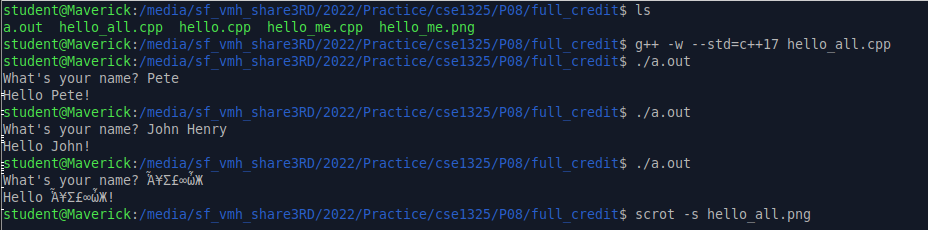
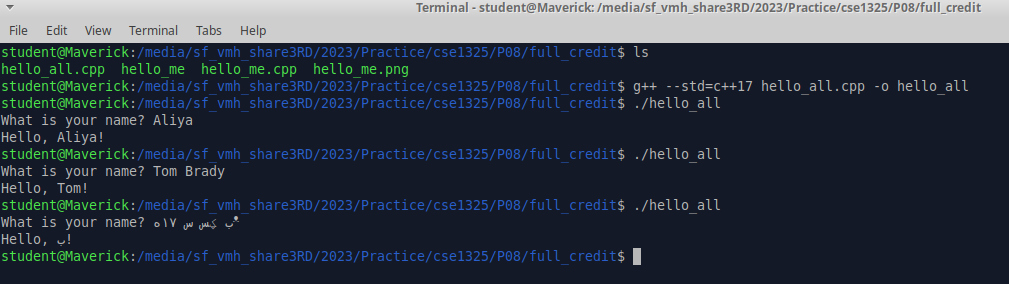
P08 C++ full_credit 4/5/23

diff --git a/P08/full_credit/hello_all.cpp b/P08/full_credit/hello_all.cpp
@@ -1,9 +1,13 @@
-#include <iostream>
+ #include <iostream>
+ #include <sstream>
 
-main(int argc, char** argv) {
-  std::string name{""};
-  std::cout << "What's your name? ";
-  std::cin >> name;
-  std::cout << "Hello " << name + "!" << std::endl;
-  return 0;
-}
+ int main(int argc, char** argv) { // function main begins program execution
+
+   std::string name{"Person"}; // Initialize String
+
+   std::cout << "What is your name? ";
+   std::cin >> name;
+
+   std::cout << "Hello, " << name << "!" << std::endl;
+
+ } // end main()

diff --git a/P08/full_credit/hello_me.cpp b/P08/full_credit/hello_me.cpp
@@ -1,6 +1,12 @@
 #include <iostream>
+#include <sstream>
 
-main(int argc, char** argv) {
-  std::cout << "Hello " << "Ali Senkayi!" << std::endl;
+
+int main(int argc, char** argv) { // function main begins programs execution
+
+  std::string name{"Aliya"};
+
+  std::cout << "Hello, " << name << "!" << std::endl;
+
   return 0;
-}
+} // end main()
